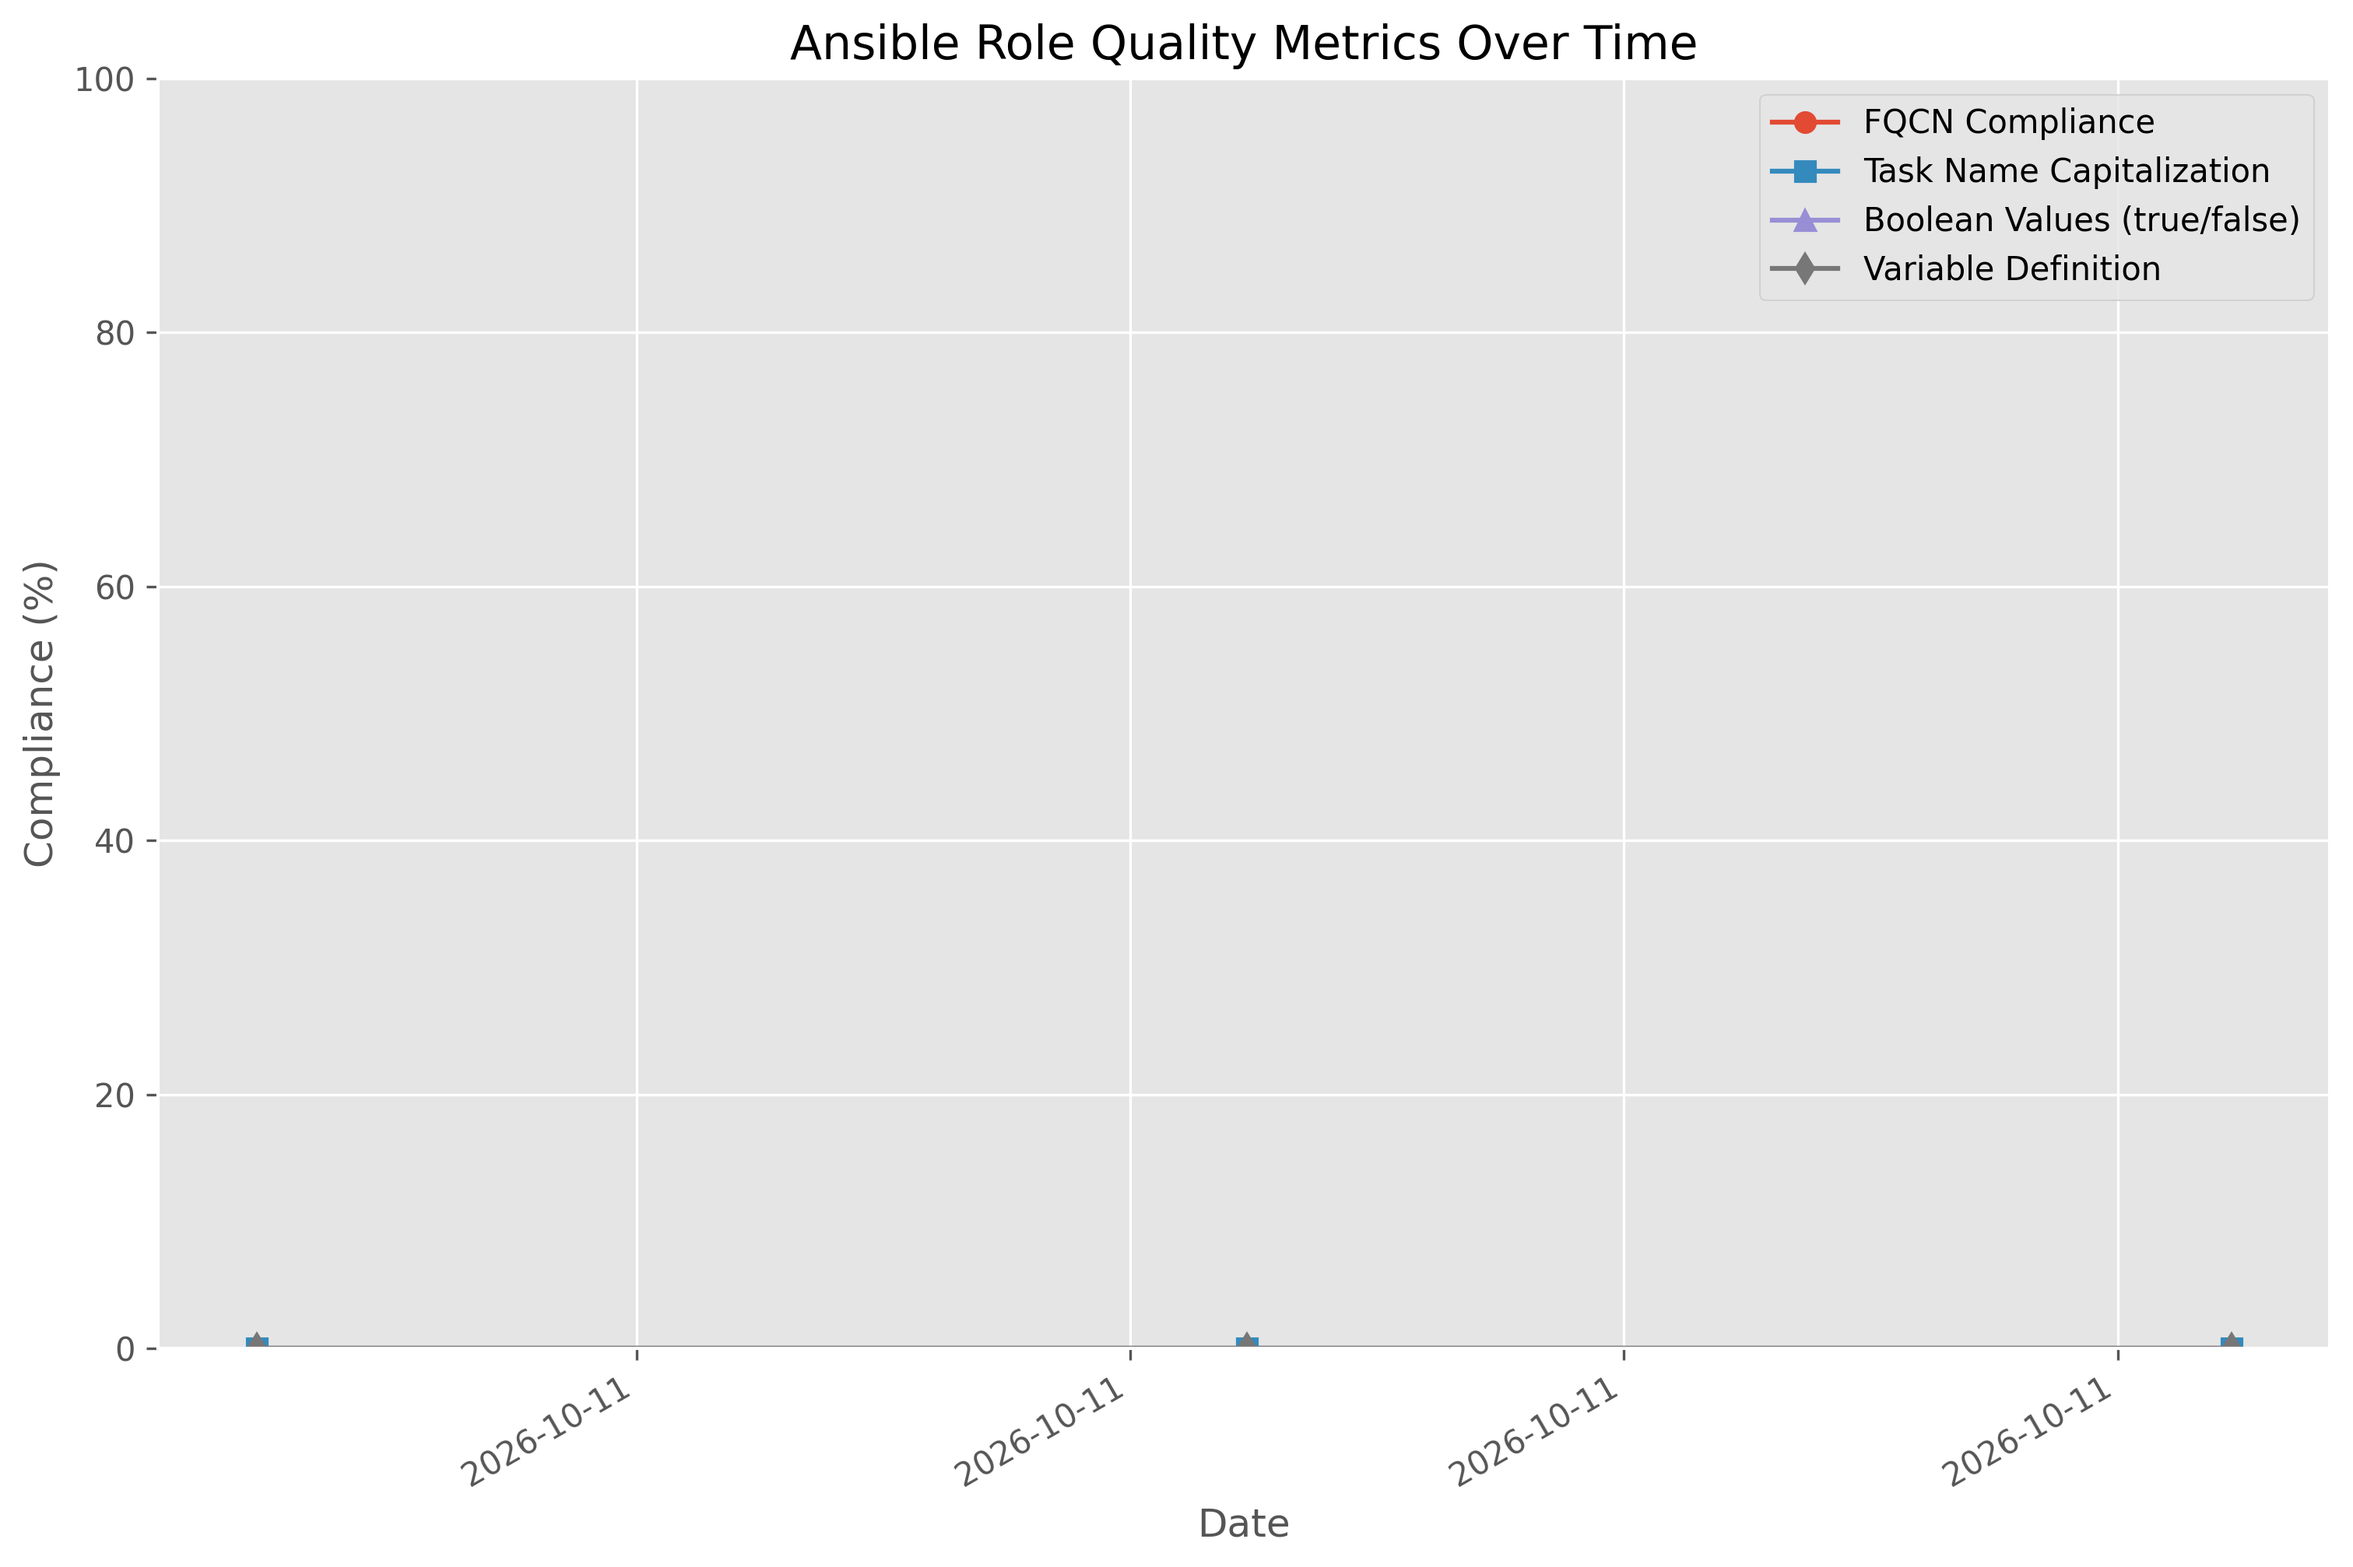
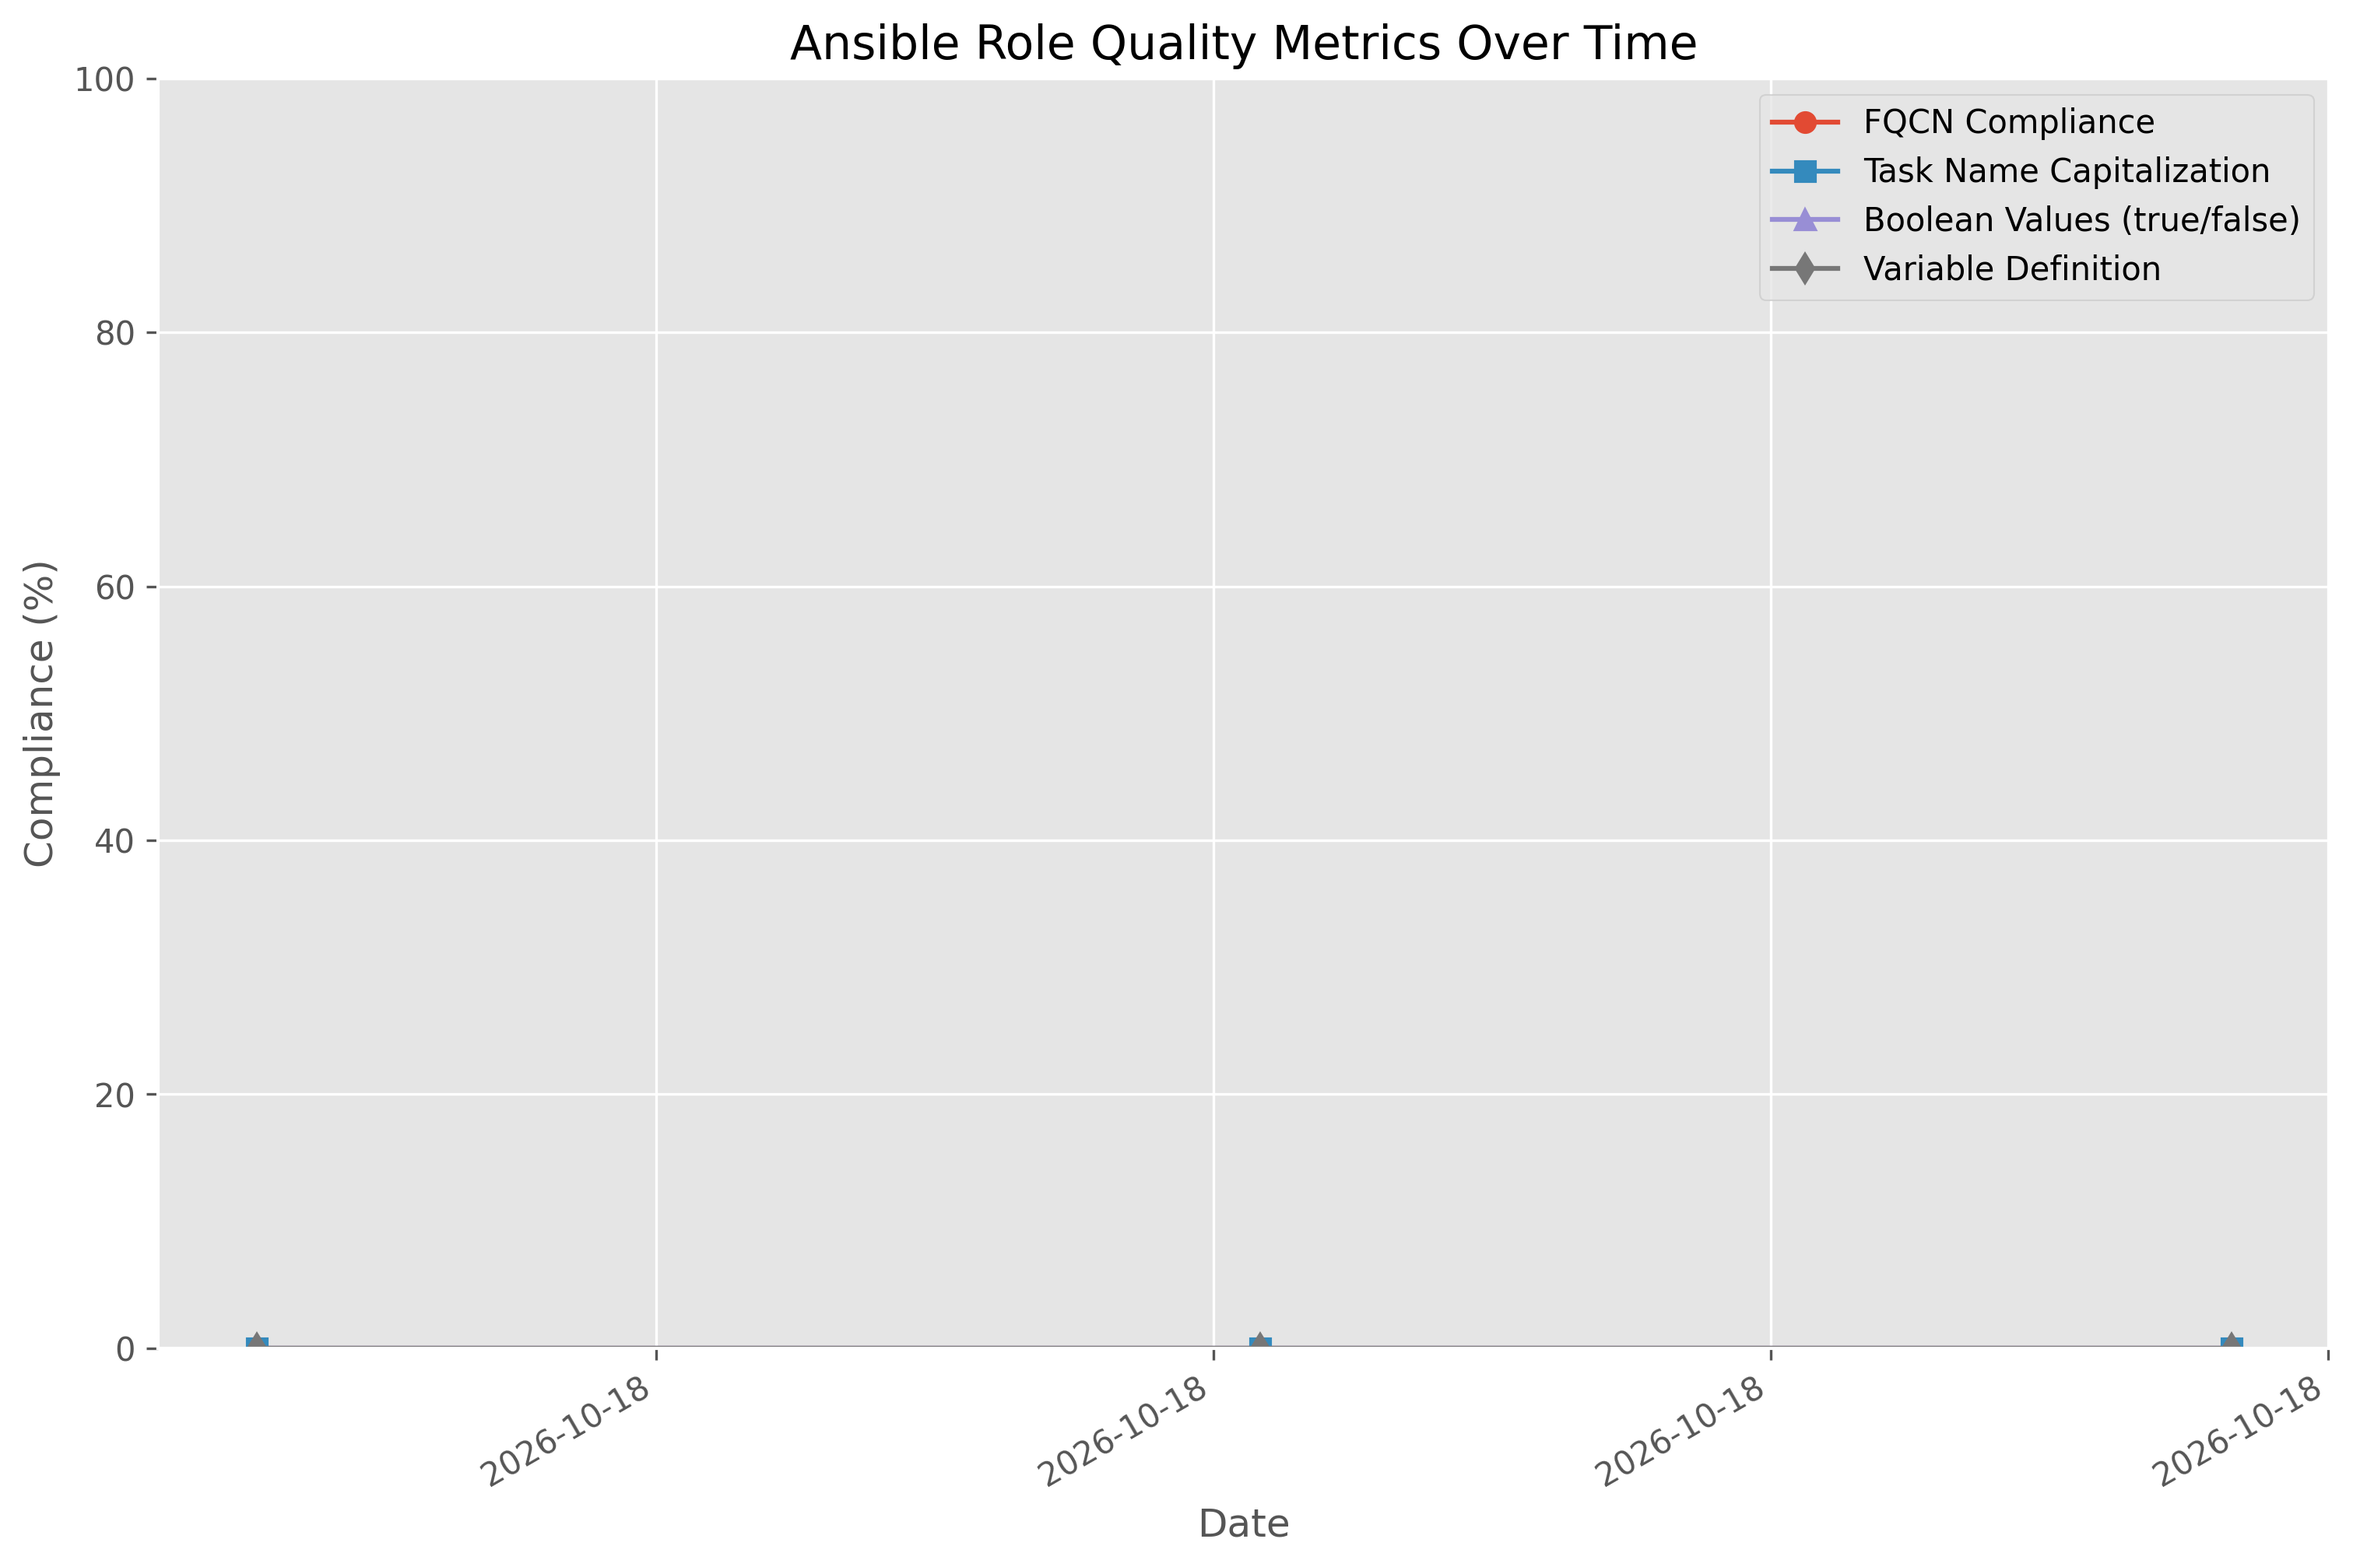
Update metrics (automated) 86381e575e3cb567ae7d61f2b827ec3665fe9a28

diff --git a/metrics/metrics_summary.md b/metrics/metrics_summary.md
@@ -1,6 +1,6 @@
 # Chef to Ansible Conversion Metrics
 
-Last updated: 2026-10-11 04:19:20
+Last updated: 2026-10-18 03:16:49
 
 ## Latest Compliance Metrics
 
